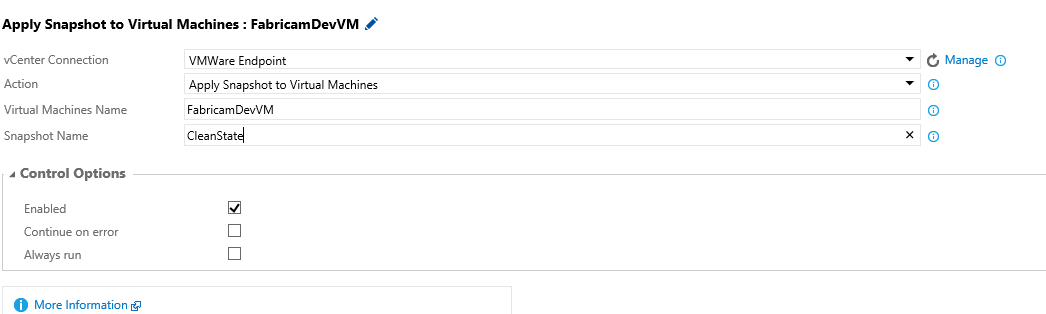
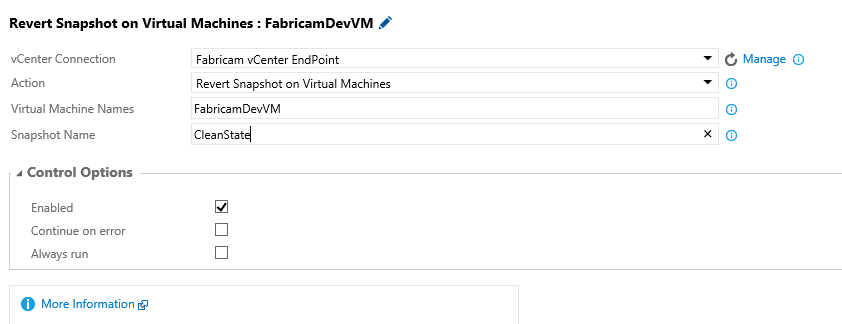
Instance name format is not showing full action name

diff --git a/tests/Tasks/vmOperations/vmOperationsTests.ts b/tests/Tasks/vmOperations/vmOperationsTests.ts
@@ -122,7 +122,7 @@ describe("getCmdArgsForAction", (): void => {
     it("Should read snapshot name for restore snapshot action", (): void => {
         getInputStub.withArgs("snapshotName", true).returns("dummySnap\"shotName");
 
-        var cmdArgs = vmOperations.VmOperations.getCmdArgsForAction("ResoreSnapshot");
+        var cmdArgs = vmOperations.VmOperations.getCmdArgsForAction("Revert Snapshot on Virtual Machines");
 
         cmdArgs.should.contain("-snapshotOps restore -snapshotName \"dummySnap\\\"shotName\"");
     });
@@ -131,7 +131,7 @@ describe("getCmdArgsForAction", (): void => {
         getInputStub.withArgs("snapshotName", true).throws();
 
         expect( (): void => {
-             vmOperations.VmOperations.getCmdArgsForAction("ResoreSnapshot");
+             vmOperations.VmOperations.getCmdArgsForAction("Revert Snapshot on Virtual Machines");
              }).to.throw("Error");
         getInputStub.should.have.been.calledOnce;
     });

diff --git a/src/Tasks/vmOperations/vmOperations.ts b/src/Tasks/vmOperations/vmOperations.ts
@@ -28,7 +28,7 @@ export class VmOperations {
         var cmdArgs = "";
         var snapshotName  = null;
         switch (actionName) {
-            case "ResoreSnapshot":
+            case "Revert Snapshot on Virtual Machines":
                 snapshotName  = this.escapeDoubleQuotes(tl.getInput("snapshotName", true));
                 cmdArgs += " -snapshotOps restore -snapshotName \"" + snapshotName  + "\"";
                 tl.debug(util.format("action args: %s", cmdArgs));
